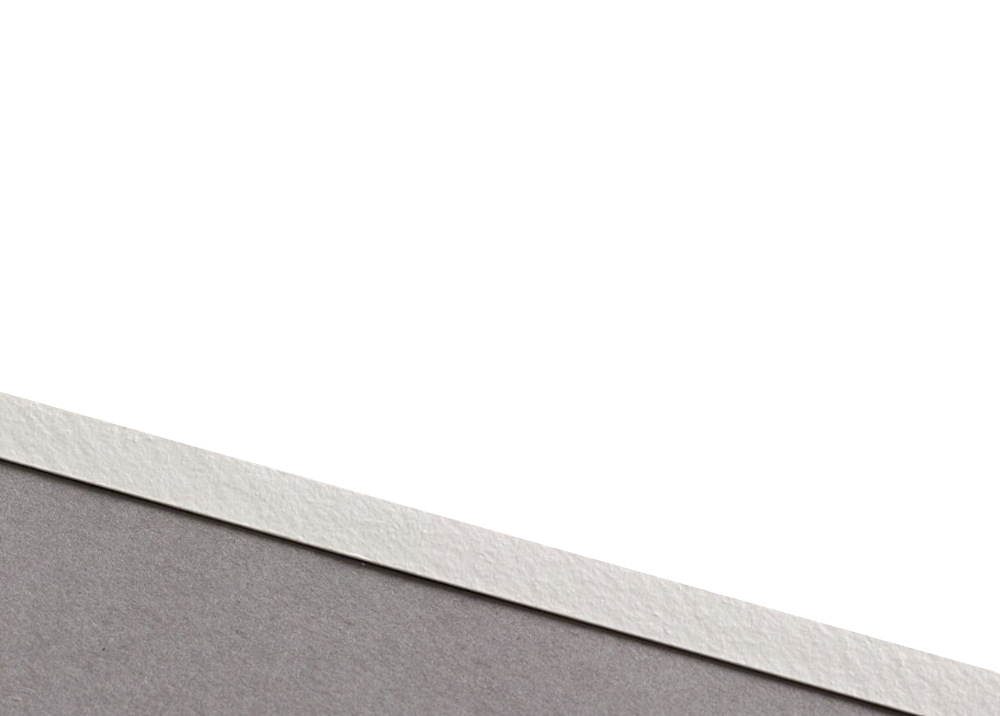
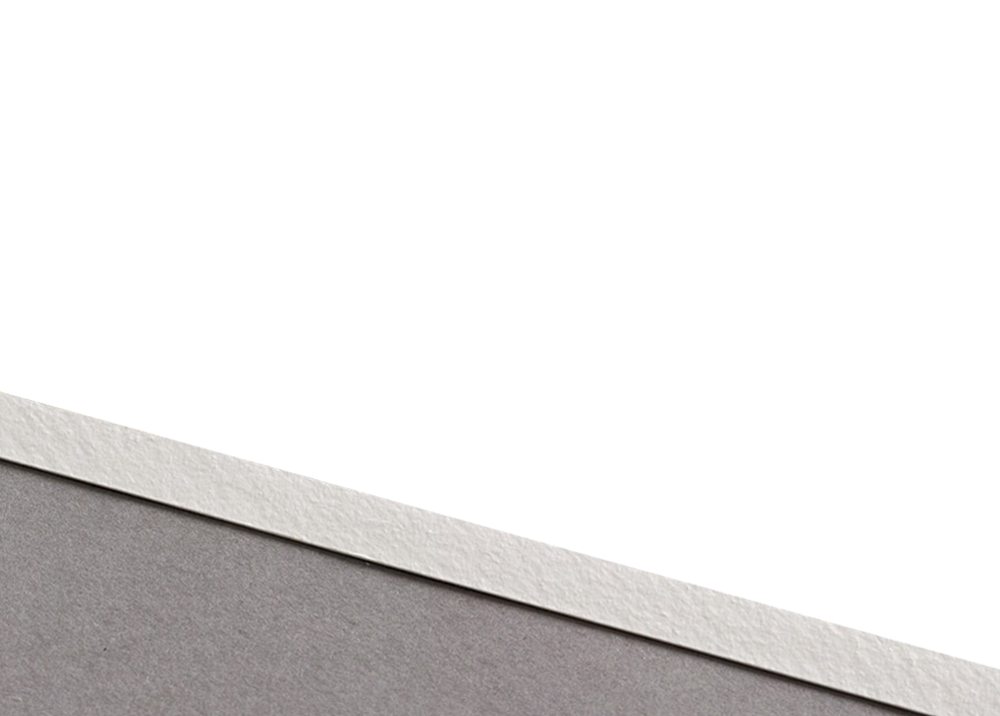
Update

diff --git a/src/components/Styled/Tecco/index.tsx b/src/components/Styled/Tecco/index.tsx
@@ -5,7 +5,7 @@ const TeccoImage = styled.img`
   rotate: 105deg;
   transform-origin: right top;
   z-index: 9;
-  filter: brightness(0.9) contrast(1.3);
+  filter: brightness(0.85) contrast(1.3);
 `;
 
 const TeccoPatten1 = styled.img`
@@ -20,7 +20,7 @@ const TeccoPatten2 = styled.img`
   position: absolute;
   z-index: 13;
   mix-blend-mode: screen;
-  opacity: 100%;
+  opacity: 40%;
   filter: brightness(1) contrast(1);
 `;
 

diff --git a/src/components/NFT/Tecco/index.tsx b/src/components/NFT/Tecco/index.tsx
@@ -19,6 +19,7 @@ const Tecco: React.FC<Props> = ({ imageUrl }) => {
       {isImage ? (
         <>
           <TeccoPatten1 id='overlay_pattern_1' src={texture} />
+          <TeccoPatten1 id='overlay_pattern_1' src={texture} />
           <TeccoPatten2 id='overlay_pattern_1' src={mask} />
           <TeccoImage
             id='content'

diff --git a/src/components/Styled/NoArt/index.tsx b/src/components/Styled/NoArt/index.tsx
@@ -5,7 +5,7 @@ const NoArtImage = styled.img`
   rotate: 105deg;
   transform-origin: right top;
   z-index: 9;
-  filter: brightness(1) contrast(1);
+  filter: brightness(0.9) contrast(1);
 `;
 
 export { NoArtImage };
